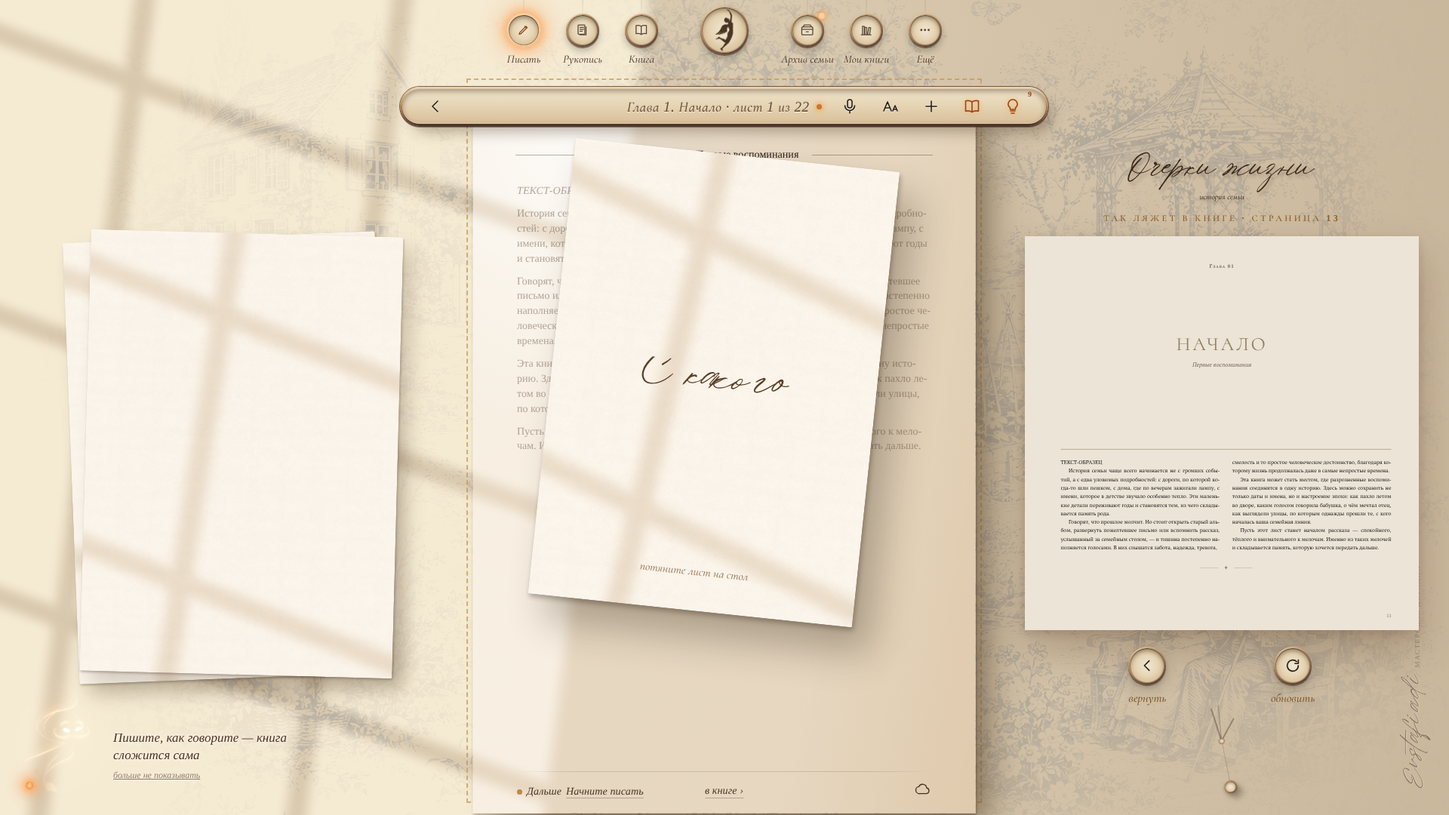
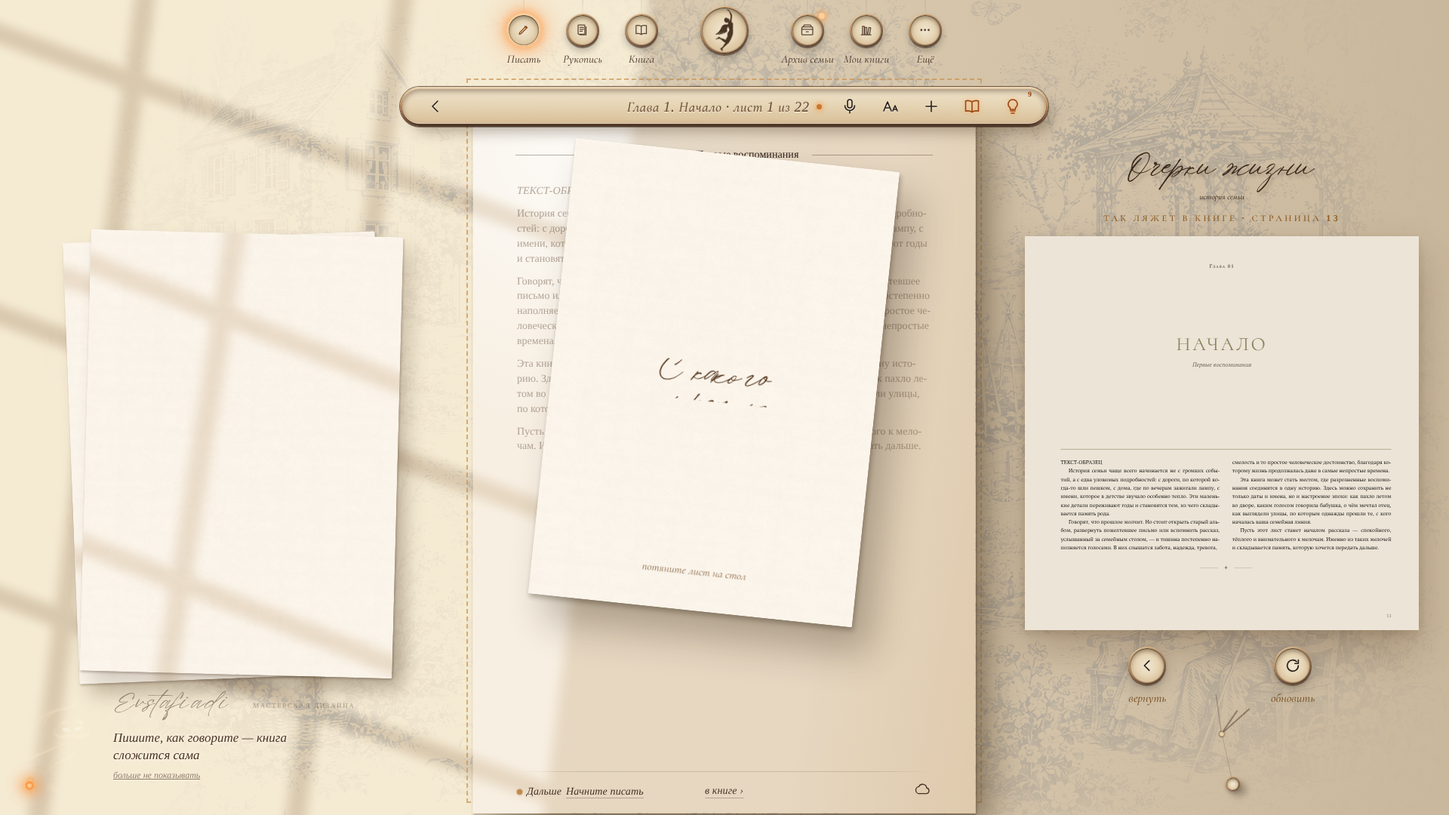
v196: лист в руке без окна, Хранитель виден днём, подпись под левой стопкой, ночью свет лампы на левой стопке, стопка уменьшается на маленьком экране
Claude-Session: https://claude.ai/code/session_01523ibQ4Bpb3TawEG9d2zYP

diff --git a/shell.html b/shell.html
@@ -4,16 +4,16 @@
 <meta charset="utf-8"/>
 <meta name="viewport" content="width=device-width, initial-scale=1, viewport-fit=cover"/>
 <title>Очерки жизни — unified shell + paper keyboard</title>
-<link rel="stylesheet" href="app/common/001-base.css?v=20261107-v195" data-inline-from="style">
+<link rel="stylesheet" href="app/common/001-base.css?v=20261107-v196" data-inline-from="style">
 
 
 
 
 
 
-<script src="app/common/021-calm-dom-v142.js?v=20261107-v195" data-inline-from="script"></script>
-<script src="app/start/022-v35-auth-gate-state.js?v=20261107-v195" data-inline-from="script"></script>
-<link rel="stylesheet" href="book-renderer/design-pack-01.css?v=demo-book-20261107-v195">
+<script src="app/common/021-calm-dom-v142.js?v=20261107-v196" data-inline-from="script"></script>
+<script src="app/start/022-v35-auth-gate-state.js?v=20261107-v196" data-inline-from="script"></script>
+<link rel="stylesheet" href="book-renderer/design-pack-01.css?v=demo-book-20261107-v196">
 </head>
 <body>
 <div class="shell is-night ui-boot" id="shell">
@@ -215,7 +215,7 @@
   <div class="editor-stage" id="editorStage" aria-label="Рабочая область">
     <div class="editor-paper-wrap" id="editorPaperWrap">
       <div class="editor-paper v35-host-paper">
-        <iframe id="v35SheetFrame" class="v35-sheet-frame" allow="microphone" src="sheet_v35.html?v=demo-book-20261107-v195" title="Редактор книги"></iframe>
+        <iframe id="v35SheetFrame" class="v35-sheet-frame" allow="microphone" src="sheet_v35.html?v=demo-book-20261107-v196" title="Редактор книги"></iframe>
       </div>
       <div class="editor-paper-shadow"></div>
     </div>
@@ -307,7 +307,7 @@
     </div>
   </div>
 </div>
-<script src="app/common/025-shell-core.js?v=20261107-v195" data-inline-from="script"></script>
+<script src="app/common/025-shell-core.js?v=20261107-v196" data-inline-from="script"></script>
 
 
 
@@ -324,15 +324,15 @@
 
 
 
-<script src="app/common/042-boot-and-map.js?v=20261107-v195" data-inline-from="script"></script>
+<script src="app/common/042-boot-and-map.js?v=20261107-v196" data-inline-from="script"></script>
 
 
-<script src="book-renderer/geo-cities.js?v=demo-book-20261107-v195"></script><script src="book-renderer/geo-atlas.js?v=demo-book-20261107-v195"></script><script src="book-renderer/design-pack-01.js?v=demo-book-20261107-v195"></script>
-<script src="book-renderer/book-engine.js?v=demo-book-20261107-v195"></script>
-<script src="book-renderer/project-store.js?v=demo-book-20261107-v195"></script>
-<script src="book-renderer/design-pack-01.layout.js?v=demo-book-20261107-v195"></script>
-<script src="book-renderer/layout-pagination-engine.js?v=demo-book-20261107-v195"></script>
-<script src="app/book/044-v103-book-assembly-controller.js?v=20261107-v195" data-inline-from="script"></script>
+<script src="book-renderer/geo-cities.js?v=demo-book-20261107-v196"></script><script src="book-renderer/geo-atlas.js?v=demo-book-20261107-v196"></script><script src="book-renderer/design-pack-01.js?v=demo-book-20261107-v196"></script>
+<script src="book-renderer/book-engine.js?v=demo-book-20261107-v196"></script>
+<script src="book-renderer/project-store.js?v=demo-book-20261107-v196"></script>
+<script src="book-renderer/design-pack-01.layout.js?v=demo-book-20261107-v196"></script>
+<script src="book-renderer/layout-pagination-engine.js?v=demo-book-20261107-v196"></script>
+<script src="app/book/044-v103-book-assembly-controller.js?v=20261107-v196" data-inline-from="script"></script>
 
 
 
@@ -384,7 +384,7 @@
 
 
 
-<script src="assets/archive/archive.js?v=20261107-v195"></script>
+<script src="assets/archive/archive.js?v=20261107-v196"></script>
 </body>
 
 
@@ -402,29 +402,29 @@
 
 
 
-<script src="app/common/common-early.js?v=20261107-v195"></script>
-<script src="app/manuscript/134-three-screens-script.js?v=20261107-v195" data-inline-from="script"></script>
-<script src="app/manuscript/manuscript.js?v=20261107-v195"></script>
+<script src="app/common/common-early.js?v=20261107-v196"></script>
+<script src="app/manuscript/134-three-screens-script.js?v=20261107-v196" data-inline-from="script"></script>
+<script src="app/manuscript/manuscript.js?v=20261107-v196"></script>
 
 
-<script src="app/topbar/keys.js?v=20261107-v195" data-inline-from="script"></script>
-<script src="app/book/book.js?v=20261107-v195"></script>
-<script src="app/write/write.js?v=20261107-v195"></script>
+<script src="app/topbar/keys.js?v=20261107-v196" data-inline-from="script"></script>
+<script src="app/book/book.js?v=20261107-v196"></script>
+<script src="app/write/write.js?v=20261107-v196"></script>
 
 
 
-<script src="app/common/common-late.js?v=20261107-v195"></script>
+<script src="app/common/common-late.js?v=20261107-v196"></script>
 
 
-<script src="assets/keeper/tour.js?v=20261107-v195"></script>
-<script src="app/start/start.js?v=20261107-v195"></script>
-<script src="app/topbar/topbar.js?v=20261107-v195"></script>
+<script src="assets/keeper/tour.js?v=20261107-v196"></script>
+<script src="app/start/start.js?v=20261107-v196"></script>
+<script src="app/topbar/topbar.js?v=20261107-v196"></script>
 
 
-<link rel="stylesheet" href="app/start/start.css?v=20261107-v195">
-<link rel="stylesheet" href="app/common/chrome.css?v=20261107-v195">
-<link rel="stylesheet" href="app/write/write.css?v=20261107-v195">
-<link rel="stylesheet" href="app/manuscript/manuscript.css?v=20261107-v195">
-<link rel="stylesheet" href="app/book/book.css?v=20261107-v195">
-<link rel="stylesheet" href="app/shelf/shelf.css?v=20261107-v195">
-<script src="app/shelf/shelf.js?v=20261107-v195"></script>
+<link rel="stylesheet" href="app/start/start.css?v=20261107-v196">
+<link rel="stylesheet" href="app/common/chrome.css?v=20261107-v196">
+<link rel="stylesheet" href="app/write/write.css?v=20261107-v196">
+<link rel="stylesheet" href="app/manuscript/manuscript.css?v=20261107-v196">
+<link rel="stylesheet" href="app/book/book.css?v=20261107-v196">
+<link rel="stylesheet" href="app/shelf/shelf.css?v=20261107-v196">
+<script src="app/shelf/shelf.js?v=20261107-v196"></script>

diff --git a/app/write/write.js b/app/write/write.js
@@ -430,7 +430,7 @@
   const isWrite=()=>shell.classList.contains('oc-w')&&shell.classList.contains('is-open')&&shell.classList.contains('oc-ready')&&!['is-manuscript','is-book-preview','is-start-screen','is-ms-to-book','oc-card'].some(c=>shell.classList.contains(c))&&!document.getElementById('bookPreviewModal')?.classList.contains('open')&&!window.OcherkiBookcase?.isOpen?.()&&!window.OcherkiArchive?.isOpen;
   // the place of the clean stack: as tall as the book's page, centred in the free room left of the sheet
   const leftBox=()=>{const w=wrapEl();if(!w)return null;const r=w.getBoundingClientRect();if(!r.width)return null;const sh=parseFloat(getComputedStyle(w).translate)||0;const L=r.left-sh;
-    let h=r.height*.62,ww=h*RATIO;const avail=L-2*Math.max(36,L*.09);if(ww>avail){ww=avail;h=ww/RATIO;}if(ww<220)return null;
+    let h=r.height*.62,ww=h*RATIO;const avail=L-2*Math.max(20,L*.09);if(ww>avail){ww=avail;h=ww/RATIO;}if(ww<110)return null;
     return {left:Math.round((L-ww)/2),top:Math.round(r.top+(r.height-h)/2+14),w:Math.round(ww),h:Math.round(h)};};
   window.__ocWsRoom=()=>shell.classList.contains('oc-w')&&!!leftBox();
 
@@ -468,7 +468,7 @@
   const act=a=>{try{FW()?.postMessage({type:'OCHERKI_SHEET_ACTION',act:a},'*');}catch(_){}};
   let drag=null;
   top.addEventListener('pointerdown',e=>{if(e.button!==0||e.target.closest('button'))return;e.preventDefault();
-    const r=top.getBoundingClientRect();const fl=top.cloneNode(true);fl.classList.add('ws-flyer');fl.querySelectorAll('.ws-tabs,.ws-nav').forEach(x=>x.remove());fl.querySelector('.ws-q')?.classList.remove('in');fl.style.setProperty('--ws-w',r.width+'px');
+    const r=top.getBoundingClientRect();const fl=top.cloneNode(true);fl.classList.add('ws-flyer');fl.querySelectorAll('.ws-tabs,.ws-nav,.ws-lt').forEach(x=>x.remove());// the window's light stays on the stack: a sheet in the hand is lit as it is lifted, not as it layfl.querySelector('.ws-q')?.classList.remove('in');fl.style.setProperty('--ws-w',r.width+'px');
     Object.assign(fl.style,{left:r.left+'px',top:r.top+'px',width:r.width+'px',height:r.height+'px'});document.body.appendChild(fl);top.classList.add('ws-away');
     drag={fl,r,x0:e.clientX,y0:e.clientY,moved:false};try{top.setPointerCapture(e.pointerId);}catch(_){}});
   top.addEventListener('pointermove',e=>{if(!drag)return;const dx=e.clientX-drag.x0,dy=e.clientY-drag.y0;if(Math.hypot(dx,dy)>5)drag.moved=true;
@@ -499,7 +499,7 @@
     const b=leftBox();const pg=document.querySelector('.wp-page')?.getBoundingClientRect();const k2=W?.keys2?.getBoundingClientRect();
     const k=[b.left,b.top,b.w,b.h,peek?1:0,pg?Math.round(pg.left)+','+Math.round(pg.top)+','+Math.round(pg.width)+','+Math.round(pg.height):'',k2?Math.round(k2.bottom):''].join('|');
     if(k===lastK)return;lastK=k;
-    Object.assign(left.style,{left:b.left+'px',top:b.top+'px',width:b.w+'px',height:b.h+'px'});left.style.setProperty('--ws-w',b.w+'px');
+    Object.assign(left.style,{left:b.left+'px',top:b.top+'px',width:b.w+'px',height:b.h+'px'});left.style.setProperty('--ws-w',b.w+'px');document.documentElement.style.setProperty('--ws-bx',Math.round(b.left+b.w/2)+'px');document.documentElement.style.setProperty('--ws-by',Math.round(b.top+b.h+Math.max(26,b.h*.06))+'px');
     // the book's name above the page, the clock below its keys — the signature stays where it always is
     const t=ttl(),c=clock();
     if(peek&&pg&&pg.width&&t){const tr={width:t.offsetWidth,height:t.offsetHeight};const bx=t.offsetLeft,by=t.offsetTop;// its place in the layout (no translate, no scale)

diff --git a/test-mode.html b/test-mode.html
@@ -1,7 +1,7 @@
 <!doctype html><html lang="ru"><head>
 <meta charset="utf-8"><meta name="viewport" content="width=device-width,initial-scale=1,viewport-fit=cover">
 <title>Очерки жизни — проверка разворотов</title>
-<link rel="stylesheet" href="book-renderer/fonts.css?v=demo-book-20261107-v195"><link rel="stylesheet" href="book-renderer/design-pack-01.css?v=demo-book-20261107-v195"><link rel="stylesheet" href="test-mode.css?v=demo-book-20261107-v195">
+<link rel="stylesheet" href="book-renderer/fonts.css?v=demo-book-20261107-v196"><link rel="stylesheet" href="book-renderer/design-pack-01.css?v=demo-book-20261107-v196"><link rel="stylesheet" href="test-mode.css?v=demo-book-20261107-v196">
 </head><body>
 <main id="viewer" class="tm-viewer" aria-label="Книжные развороты"><p id="empty" class="tm-empty">Добавьте текст или фотографии для проверки. Можно также открыть сохранённую копию проекта.</p><div id="stage" class="tm-stage" hidden><div id="canvas" class="tm-canvas"></div></div></main>
 <section id="editorProbe" class="tm-editor-probe" hidden aria-label="Диагностика редакторского переноса"><header><strong>T1–T2 · Редактируемый лист</strong><button id="closeEditorProbe" aria-label="Закрыть диагностику">×</button></header><div id="editorProbeText" class="tm-editor-probe-text" lang="ru" contenteditable="true" spellcheck="true"></div><pre id="editorProbeReport"></pre></section>
@@ -24,5 +24,5 @@
 <details class="tm-source"><summary>Сохранённая копия проекта</summary><p id="sourceInfo">Копия не открыта. Несохранённые изменения редактора сюда не передаются.</p><label>Открыть JSON-файл<input id="projectFile" type="file" accept=".json,application/json"></label><button id="downloadSource" disabled>Скачать копию для телефона</button></details>
 <button type="button" id="sheetApply" class="tm-primary">Применить</button>
 </dialog>
-<script src="book-renderer/editor-source-bridge.js?v=demo-book-20261107-v195"></script><script src="book-renderer/geo-cities.js?v=demo-book-20261107-v195"></script><script src="book-renderer/geo-atlas.js?v=demo-book-20261107-v195"></script><script src="book-renderer/design-pack-01.js?v=demo-book-20261107-v195"></script><script src="book-renderer/design-pack-01.layout.js?v=demo-book-20261107-v195"></script><script src="book-renderer/layout-pagination-engine.js?v=demo-book-20261107-v195"></script><script src="test-mode-state.js?v=demo-book-20261107-v195"></script><script src="test-mode.js?v=demo-book-20261107-v195"></script>
+<script src="book-renderer/editor-source-bridge.js?v=demo-book-20261107-v196"></script><script src="book-renderer/geo-cities.js?v=demo-book-20261107-v196"></script><script src="book-renderer/geo-atlas.js?v=demo-book-20261107-v196"></script><script src="book-renderer/design-pack-01.js?v=demo-book-20261107-v196"></script><script src="book-renderer/design-pack-01.layout.js?v=demo-book-20261107-v196"></script><script src="book-renderer/layout-pagination-engine.js?v=demo-book-20261107-v196"></script><script src="test-mode-state.js?v=demo-book-20261107-v196"></script><script src="test-mode.js?v=demo-book-20261107-v196"></script>
 </body></html>

diff --git a/index.html b/index.html
@@ -10,11 +10,11 @@
 <link rel="preload" as="script" href="assets/vendor/three/three.min.js">
 <link rel="preload" as="script" href="assets/vendor/three/EffectComposer.js">
 <link rel="preload" as="script" href="assets/vendor/three/UnrealBloomPass.js">
-<link rel="preload" as="script" href="assets/keeper/keeper3d.js?v=20261107-v195">
-<link rel="preload" as="script" href="assets/keeper/desk.js?v=20261107-v195">
+<link rel="preload" as="script" href="assets/keeper/keeper3d.js?v=20261107-v196">
+<link rel="preload" as="script" href="assets/keeper/desk.js?v=20261107-v196">
 <link rel="preload" as="image" href="assets/keeper/desk-paper.jpg">
 
-  <link rel="stylesheet" href="app/startpage/start-page.css?v=20261107-v195" data-inline-from="style">
+  <link rel="stylesheet" href="app/startpage/start-page.css?v=20261107-v196" data-inline-from="style">
 
 
 
@@ -278,7 +278,7 @@
     <iframe class="constructor-shell-frame" id="constructorShellFrame" allow="microphone" title="Конструктор книги" src="about:blank"></iframe>
   </div>
 
-  <script src="app/startpage/start-page.js?v=20261107-v195" data-inline-from="script"></script>
+  <script src="app/startpage/start-page.js?v=20261107-v196" data-inline-from="script"></script>
 
 
 
@@ -293,9 +293,9 @@
 
 
 
-<script src="book-renderer/project-store.js?v=demo-book-20261107-v195"></script>
-<link rel="stylesheet" href="app/shelf/shelf.css?v=20261107-v195">
-<script src="app/shelf/shelf.js?v=20261107-v195"></script>
+<script src="book-renderer/project-store.js?v=demo-book-20261107-v196"></script>
+<link rel="stylesheet" href="app/shelf/shelf.css?v=20261107-v196">
+<script src="app/shelf/shelf.js?v=20261107-v196"></script>
 
 
 <div class="kob" id="kob" aria-label="Вход в «Очерки жизни»"><div class="knight"><div class="night-base"></div><div class="night-artwork"></div><div class="night-main"></div><div class="night-warm"></div><div class="night-shadow"></div><div class="night-artwork-ink"></div><div class="night-vignette"></div></div><canvas></canvas><button type="button" class="kmus" id="kobMusic" aria-label="Музыка"><svg viewBox="0 0 24 24"><path d="M9 18V6l10-2v12"/><circle cx="6.5" cy="18" r="2.5"/><circle cx="16.5" cy="16" r="2.5"/></svg></button>
@@ -328,7 +328,7 @@
     <div class="acts"><button class="btn ghost" data-go="how">Назад</button><button class="btn main" data-go="finish" data-need="book">Создать книгу</button></div></section>
   <div class="dots"><i></i><i></i><i></i></div>
 </div>
-<script src="assets/keeper/tour.js?v=20261107-v195"></script>
-<script src="app/startpage/keeper-intro.js?v=20261107-v195" data-inline-from="script"></script>
+<script src="assets/keeper/tour.js?v=20261107-v196"></script>
+<script src="app/startpage/keeper-intro.js?v=20261107-v196" data-inline-from="script"></script>
 </body>
 </html>

diff --git a/app/startpage/keeper-intro.js b/app/startpage/keeper-intro.js
@@ -76,7 +76,7 @@
     const cover=id=>COVERS[[...String(id)].reduce((h,c)=>(h*31+c.charCodeAt(0))>>>0,7)%COVERS.length];
     box.innerHTML=rows.map(r=>`<div class="row">${r.map((b,k)=>`<div class="bk" data-id="${esc(b.id)}" style="--tilt:${[-1.2,.9,-.5][k]}deg">
         ${(()=>{const cv=cover(b.id);return `<div class="tag"><strong>${esc(b.title||'Книга без названия')}</strong><span>сохранена ${esc(when(b.savedAt)||'—')}${b.pages?` · ${b.pages} стр.`:''}</span></div>
-        <div class="cov" data-go="open" data-id="${esc(b.id)}" style="--ar:${cv.ar};--fx:${cv.fx}%;--fw:${cv.fw}%;${cv.dark?'--ink:linear-gradient(180deg,#6b4a22,#3e2a12 60%,#7a5428);--ink2:#7a5428;--sh:rgba(255,240,210,.5);':''}--fs:${(()=>{const t=String(b.title||''),w=Math.max(...t.split(/\s+/).map(x=>x.length),1);return Math.max(12,Math.min(24,Math.floor(100/(w*.7)),t.length>26?17:24));})()}px"><img src="assets/keeper/cover-${cv.n}.webp?v=20261107-v195" alt=""><div class="face"><b>книга</b><strong>${esc(b.title||'Книга без названия')}</strong></div></div>`;})()}
+        <div class="cov" data-go="open" data-id="${esc(b.id)}" style="--ar:${cv.ar};--fx:${cv.fx}%;--fw:${cv.fw}%;${cv.dark?'--ink:linear-gradient(180deg,#6b4a22,#3e2a12 60%,#7a5428);--ink2:#7a5428;--sh:rgba(255,240,210,.5);':''}--fs:${(()=>{const t=String(b.title||''),w=Math.max(...t.split(/\s+/).map(x=>x.length),1);return Math.max(12,Math.min(24,Math.floor(100/(w*.7)),t.length>26?17:24));})()}px"><img src="assets/keeper/cover-${cv.n}.webp?v=20261107-v196" alt=""><div class="face"><b>книга</b><strong>${esc(b.title||'Книга без названия')}</strong></div></div>`;})()}
         <div class="ops"><button type="button" class="op" data-go="open" data-id="${esc(b.id)}">Открыть</button><button type="button" class="op del" data-del="${esc(b.id)}">Удалить</button></div>
         <div class="ask"><span>Удалить «${esc(b.title||'книгу')}» навсегда?</span><button type="button" class="op del" data-del-yes="${esc(b.id)}">Удалить</button><button type="button" class="op" data-del-no>Оставить</button></div></div>`).join('')}</div>`).join('');}
   $('kobShelf').addEventListener('click',async e=>{const d=e.target.closest('[data-del]');if(d){e.stopPropagation();d.closest('.bk')?.classList.add('asking');return;}

diff --git a/app/book/044-v103-book-assembly-controller.js b/app/book/044-v103-book-assembly-controller.js
@@ -2933,7 +2933,7 @@
     const sheetWidth=spreadMode?size[0]*2:size[0];
     // Page mode keeps the canonical rule: @page{size:${size[0]}mm ${size[1]}mm;margin:0}
     const [,pageHeight]=currentPageSize();
-    return `<!doctype html><html lang="ru"><head><meta charset="utf-8"><base href="../"><link rel="stylesheet" href="book-renderer/fonts.css"><link rel="stylesheet" href="book-renderer/design-pack-01.css?v=demo-book-20261107-v195"><style>:root{--book-page-w:1000px;--book-page-h:${pageHeight}px}@page{size:${sheetWidth}mm ${size[1]}mm;margin:0}html,body{margin:0;background:#fff}.book-print-sheet{position:relative;width:${sheetWidth}mm;height:${size[1]}mm;overflow:hidden;break-after:page;page-break-after:always}.book-print-sheet:last-child{break-after:auto}.spread-sheet{display:grid;grid-template-columns:1fr 1fr}.spread-cell{position:relative;width:${size[0]}mm;height:${size[1]}mm;overflow:hidden}.dpk-page{position:absolute!important;left:0;top:0;transform-origin:0 0;transform:scale(${printScale});}</style></head><body class="book-format-${activeFormat}">${sheets}<style id="v77-cover-in-place">
+    return `<!doctype html><html lang="ru"><head><meta charset="utf-8"><base href="../"><link rel="stylesheet" href="book-renderer/fonts.css"><link rel="stylesheet" href="book-renderer/design-pack-01.css?v=demo-book-20261107-v196"><style>:root{--book-page-w:1000px;--book-page-h:${pageHeight}px}@page{size:${sheetWidth}mm ${size[1]}mm;margin:0}html,body{margin:0;background:#fff}.book-print-sheet{position:relative;width:${sheetWidth}mm;height:${size[1]}mm;overflow:hidden;break-after:page;page-break-after:always}.book-print-sheet:last-child{break-after:auto}.spread-sheet{display:grid;grid-template-columns:1fr 1fr}.spread-cell{position:relative;width:${size[0]}mm;height:${size[1]}mm;overflow:hidden}.dpk-page{position:absolute!important;left:0;top:0;transform-origin:0 0;transform:scale(${printScale});}</style></head><body class="book-format-${activeFormat}">${sheets}<style id="v77-cover-in-place">
 .book-preview-spread.is-cover::after,.book-preview-spread.is-cover::before{display:none!important}
 .book-preview-spread>.book-preview-half.is-ghost{visibility:hidden!important;background:none!important;box-shadow:none!important;pointer-events:none}
 </style>

diff --git a/test-mode-runner.html b/test-mode-runner.html
@@ -1,3 +1,3 @@
-<!doctype html><html lang="ru"><head><meta charset="utf-8"><meta name="viewport" content="width=device-width,initial-scale=1"><link rel="stylesheet" href="book-renderer/fonts.css?v=demo-book-20261107-v195"><link rel="stylesheet" href="book-renderer/design-pack-01.css?v=demo-book-20261107-v195"></head><body>
-<script src="book-renderer/geo-cities.js?v=demo-book-20261107-v195"></script><script src="book-renderer/geo-atlas.js?v=demo-book-20261107-v195"></script><script src="book-renderer/design-pack-01.js?v=demo-book-20261107-v195"></script><script src="book-renderer/book-engine.js?v=demo-book-20261107-v195"></script><script src="book-renderer/design-pack-01.layout.js?v=demo-book-20261107-v195"></script><script src="book-renderer/layout-pagination-engine.js?v=demo-book-20261107-v195"></script><script src="test-mode-runner.js?v=demo-book-20261107-v195"></script>
+<!doctype html><html lang="ru"><head><meta charset="utf-8"><meta name="viewport" content="width=device-width,initial-scale=1"><link rel="stylesheet" href="book-renderer/fonts.css?v=demo-book-20261107-v196"><link rel="stylesheet" href="book-renderer/design-pack-01.css?v=demo-book-20261107-v196"></head><body>
+<script src="book-renderer/geo-cities.js?v=demo-book-20261107-v196"></script><script src="book-renderer/geo-atlas.js?v=demo-book-20261107-v196"></script><script src="book-renderer/design-pack-01.js?v=demo-book-20261107-v196"></script><script src="book-renderer/book-engine.js?v=demo-book-20261107-v196"></script><script src="book-renderer/design-pack-01.layout.js?v=demo-book-20261107-v196"></script><script src="book-renderer/layout-pagination-engine.js?v=demo-book-20261107-v196"></script><script src="test-mode-runner.js?v=demo-book-20261107-v196"></script>
 </body></html>

diff --git a/app/write/write.css b/app/write/write.css
@@ -768,3 +768,15 @@ html body .shell.oc-w.wp-on.oc-ws-peek .bottom-left .master-clock{opacity:1!impo
 /* the ring of years belongs to the big clock; the small one under the book's page goes without it */
 .oc-years{transition:opacity .8s ease}
 html:has(.shell.oc-ws-peek) .oc-years{opacity:0!important;pointer-events:none!important}
+/* v196 — the Keeper reads on the light desk by day too: a dark figure, not a pale one */
+.wk canvas{transition:filter 2.45s cubic-bezier(.37,0,.63,1)}
+html:has(.shell:not(.is-night)) .wk canvas{filter:brightness(.34) sepia(.45) contrast(1.15)}
+/* v196 — the workshop's signature lives on the left, under the clean sheets (the book's page covered it on the right) */
+html body .shell.oc-ws .bottom-left .brand-wrap{left:var(--ws-bx,40px)!important;top:var(--ws-by,auto)!important;right:auto!important;bottom:auto!important;width:auto!important;height:auto!important;transform:translateX(-50%);transition:opacity 1.4s ease}
+html body .shell.oc-ws .bottom-left .brand-line{writing-mode:horizontal-tb!important;transform:none!important;display:flex;align-items:baseline;gap:.9em}
+/* at night the lamp's light reaches the clean sheets from the side of the bar: their corner nearest the lamp lit, the far one in the dusk */
+.ws-lt::after{background:linear-gradient(235deg,rgba(240,225,200,.06) 0%,rgba(215,185,145,.22) 35%,rgba(160,120,80,.45) 70%,rgba(110,76,46,.62) 100%)!important}
+html:has(.shell.is-night) .ws-tabs button{filter:brightness(.8) sepia(.2)}
+/* the clean stack keeps the screen's proportions on a small screen: its words shrink with it */
+.ws-nav,.ws-hint{font-size:clamp(10px,calc(var(--ws-w,320px)*.045),16px)}
+.ws-tabs button{font-size:clamp(10px,calc(var(--ws-w,320px)*.045),16px)}

diff --git a/qa/v45_expected_margin_validation_test.js b/qa/v45_expected_margin_validation_test.js
@@ -5,7 +5,7 @@ assert(testMode.includes('let overflowError=null;'),'acceptance does not isolate
 assert(testMode.includes('catch(error){overflowError=error;}'),'expected manual-margin validation still aborts acceptance');
 assert(testMode.includes("T9:{status:overflowError?.message==='Заметка на поле не помещается в две строки. Сократите её и пересоберите книгу.'"),'T9 no longer verifies the expected validation result');
 assert(!testMode.includes('overflowView.layout.warnings'),'acceptance still reads a result that cannot exist for a blocking manual validation');
-assert(testMode.includes("test-mode-runner.html?v=demo-book-20261107-v195"),'runner cache is not refreshed');
-assert(html.includes('demo-book-20261107-v195'),'test mode cache is not refreshed');
+assert(testMode.includes("test-mode-runner.html?v=demo-book-20261107-v196"),'runner cache is not refreshed');
+assert(html.includes('demo-book-20261107-v196'),'test mode cache is not refreshed');
 assert.equal(JSON.parse(read('book-renderer/design-pack-01.manifest.json')).version,'1.16.0-stable-important-reflow');
 console.log(JSON.stringify({status:'pass',expectedManualMarginError:'isolated',acceptanceContinues:true,renderer:'unchanged-v23'}));

diff --git a/qa/v43_visible_editorial_runtime_test.js b/qa/v43_visible_editorial_runtime_test.js
@@ -48,6 +48,6 @@ assert(!source.includes("fallback:'source-kept-in-prose'"),'automatic accent sti
 // An unplaceable automatic accent no longer stops the whole book; it is
 // recorded explicitly so the author can see which page lost it.
 assert(source.includes("code:'ACCENT_AUTO_UNPLACED'")&&source.includes("fallback:'plain-text-page'"),'automatic accent fallback is not recorded');
-for(const file of ['index.html','shell.html','test-mode-runner.html'])assert(read(file).includes('demo-book-20261107-v195'),`${file} has a stale cache key`);
-assert(read('test-mode.html').includes('demo-book-20261107-v195'),'test-mode.html has a stale cache key');
+for(const file of ['index.html','shell.html','test-mode-runner.html'])assert(read(file).includes('demo-book-20261107-v196'),`${file} has a stale cache key`);
+assert(read('test-mode.html').includes('demo-book-20261107-v196'),'test-mode.html has a stale cache key');
 console.log(JSON.stringify({status:'pass',rhythm:body.map(page=>page.rhythm),noBlankPostOpening:true,automaticRetries:[...attempts.values()].some(value=>value>1),sourceInvariant:'exact'}));

diff --git a/test-mode.js b/test-mode.js
@@ -9,7 +9,7 @@
       request={id:++serial,structure,meta,resolve,reject};
       runner=document.createElement('iframe');runner.className='tm-runner';runner.title='Раскладка материала';runner.setAttribute('aria-hidden','true');runner.tabIndex=-1;
       const [w,h]=engine.FORMATS[meta.format||'square'];runner.width=String(w);runner.height=String(h);
-      if(standaloneRunner)runner.srcdoc=standaloneRunner;else runner.src='test-mode-runner.html?v=demo-book-20261107-v195';
+      if(standaloneRunner)runner.srcdoc=standaloneRunner;else runner.src='test-mode-runner.html?v=demo-book-20261107-v196';
       document.body.appendChild(runner);
       startupTimer=setTimeout(()=>{if(request){const pending=request;request=null;pending.reject(Error('Не удалось загрузить модуль раскладки. Проверьте, что сервер запущен и архив распакован целиком.'));runner?.remove();runner=null;}},15000);
     });

diff --git a/sheet_v35.html b/sheet_v35.html
@@ -8,7 +8,7 @@
 <script src="book-renderer/project-store.js"></script>
 <script src="book-renderer/tree-editor.js"></script>
 <script src="book-renderer/people-marker.js"></script>
-<link rel="stylesheet" href="app/sheet/sheet.css?v=20261107-v195" data-inline-from="style">
+<link rel="stylesheet" href="app/sheet/sheet.css?v=20261107-v196" data-inline-from="style">
 
 </head>
 <body>
@@ -98,7 +98,7 @@
 <input id="photoInput" type="file" accept="image/*" multiple hidden>
 <input id="photoReplaceInput" type="file" accept="image/*" hidden>
 
-<script src="app/sheet/sheet.js?v=20261107-v195" data-inline-from="script"></script>
+<script src="app/sheet/sheet.js?v=20261107-v196" data-inline-from="script"></script>
 </body>
 </html>
 
